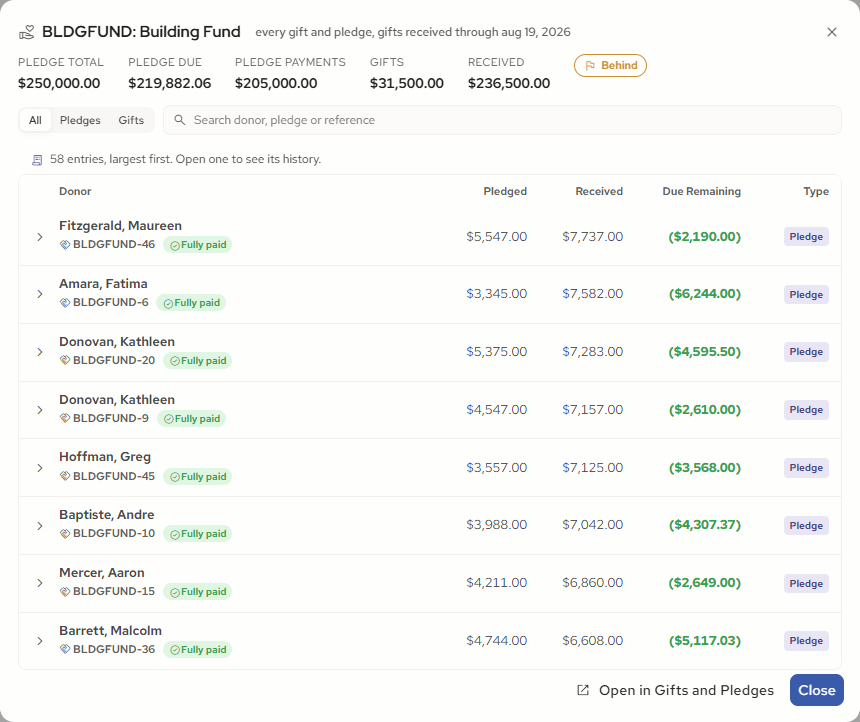
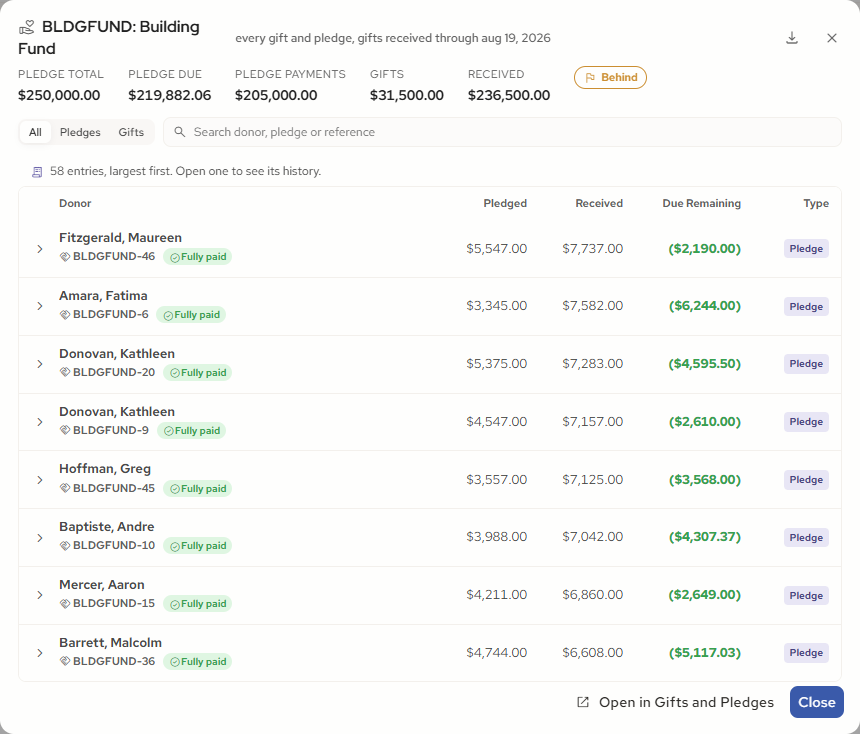
Gifts Pledges: download control on the giving ledger pop-up (owner, 9 Oct)
An icon button beside Close, named Export to Excel on hover and for screen readers,
a labelled stub that reports the purpose and the ledger's type filter. The labelled
button made the title wrap at the pop-up's width, so the control is an icon like Close.
Handover section updated (Overview, pop-up bullet, Hooks, Still open), shot 05 retaken.
Driver 853; suite 3514 green.

diff --git a/handover.html b/handover.html
@@ -1057,7 +1057,7 @@ main{padding:20px 16px 60px} .widget{padding:18px 16px} .pair-grid{grid-template
 </ul>
 </div></section>
 <section id="w17" class="widget">
-<header class="wh"><div><span class="wid">W17</span><h2>Gifts Pledges</h2></div><div class="badges"><span class="ctype t-complete">Complete Change</span><span class="rev">Draft 6 Oct 2026</span></div></header>
+<header class="wh"><div><span class="wid">W17</span><h2>Gifts Pledges</h2></div><div class="badges"><span class="ctype t-complete">Complete Change</span><span class="rev">Draft 9 Oct 2026</span></div></header>
 
 <details class="shots" open><summary>Screenshots <span class="count">12 of 12 saved</span></summary>
 <div class="pair"><h4><span class="num">01</span>Glance</h4><div class="pair-grid"><figure class="shot"><figcaption>V1</figcaption><button class="zoom" data-src="docs/Pics/Version%201/W17%20-%20Gifts%20Pledges/W17-V1-01%20Glance.png" aria-label="Enlarge V1 Glance"><img src="docs/Pics/Version%201/W17%20-%20Gifts%20Pledges/W17-V1-01%20Glance.png" alt="V1 Glance" loading="lazy"></button></figure><figure class="shot"><figcaption>V2</figcaption><button class="zoom" data-src="docs/Pics/Version%202/W17%20-%20Gifts%20Pledges/W17-V2-01%20Glance.png" aria-label="Enlarge V2 Glance"><img src="docs/Pics/Version%202/W17%20-%20Gifts%20Pledges/W17-V2-01%20Glance.png" alt="V2 Glance" loading="lazy"></button></figure></div></div>
@@ -1076,7 +1076,7 @@ main{padding:20px 16px 60px} .widget{padding:18px 16px} .pair-grid{grid-template
 <li><strong>The date control.</strong> V1 had one "received through" date (Today, End of last month, custom). V2 keeps "Gifts received through" as the default and adds Year to date, This quarter, This month and Custom dates.</li>
 <li><strong>The Giving bars.</strong> Three segments that always fill the track (pledge payments, still expected, gifts), most received first, with a figures line under each. V1 drew a thermometer with a hatched shortfall, a due marker and a % fulfilled.</li>
 <li><strong>The Summary Table splits in two.</strong> Pledges reproduces the legacy Gifts and Pledges panel column for column; Gifts lists the money with no pledge. Neither is sortable. V1 had one sortable table.</li>
-<li><strong>The pop-up becomes a giving ledger.</strong> Every gift and pledge for the purpose, largest first, with an All / Pledges / Gifts filter, a search box and rows that open to their history. V1 listed donors most behind first.</li>
+<li><strong>The pop-up becomes a giving ledger.</strong> Every gift and pledge for the purpose, largest first, with an All / Pledges / Gifts filter, a search box, rows that open to their history, and a download control top right. V1 listed donors most behind first.</li>
 <li><strong>Detail and Glance.</strong> Detail gains the view switch (V1 showed only "Progress toward goal" there). Glance drops the purpose chip and the "N purposes behind schedule" line for a split bar and a one-line split.</li>
 </ol>
 <p>Everything else (the card menu, the chip row, the view switch top right, the loading skeleton, the empty state, Close) is in the same place as V1. The demos use different sample data and anchor dates, so every figure, name and row count in the screenshots differs for that reason alone.</p>
@@ -1104,7 +1104,7 @@ main{padding:20px 16px 60px} .widget{padding:18px 16px} .pair-grid{grid-template
 </ul>
 <h4>Pop-up</h4>
 <ul>
-<li><strong>Pop-up - Giving ledger:</strong> titled "CODE: Name"; a summary strip (Pledge Total, Pledge Due, Pledge payments, Gifts, Received, status badge); All / Pledges / Gifts and a search over donor, pledge and reference; columns Donor, Pledged, Received, Due Remaining, Type. A pledge row shows its pace status ("Fully paid", "Up to date", "About a month behind") and a Pledge tag; a gift row reads "No pledge" with a Gift tag. A pledge opens to its instalment schedule (Fallen due or Not yet due) and the gifts applied to it; a gift opens to its one line. The list scrolls inside the pop-up; footer "Open in Gifts and Pledges" and Close. V1 had the donors most behind first, All donors / Behind only, Export to Excel and a drawer per donor; its "Paid in full" on a merely current pledge is now "Up to date".</li>
+<li><strong>Pop-up - Giving ledger:</strong> titled "CODE: Name"; a summary strip (Pledge Total, Pledge Due, Pledge payments, Gifts, Received, status badge); All / Pledges / Gifts and a search over donor, pledge and reference; columns Donor, Pledged, Received, Due Remaining, Type. A pledge row shows its pace status ("Fully paid", "Up to date", "About a month behind") and a Pledge tag; a gift row reads "No pledge" with a Gift tag. A pledge opens to its instalment schedule (Fallen due or Not yet due) and the gifts applied to it; a gift opens to its one line. The list scrolls inside the pop-up; a download icon sits top right beside the close control, "Export to Excel" on hover, and downloads the ledger as shown (All, Pledges or Gifts); footer "Open in Gifts and Pledges" and Close. V1 had the donors most behind first, All donors / Behind only, Export to Excel and a drawer per donor; its "Paid in full" on a merely current pledge is now "Up to date".</li>
 </ul>
 <h3>Developer Notes</h3>
 <p>New data is needed: each purpose's gift lines with their pledge link, posted and undone flags, how each arrived and its reference; and each active pledge's begin date, end date, frequency and instalment count. Everything else is presentation.</p>
@@ -1125,12 +1125,18 @@ main{padding:20px 16px 60px} .widget{padding:18px 16px} .pair-grid{grid-template
 <li><strong>Bar:</strong> pledge payments in the window; still expected = Pledge Total − pledge payments, never below zero; gifts in the window. Scale = the larger of Pledge Total and payments, plus gifts, so an over-paid pledge cannot run off the track.</li>
 <li><strong>Tables and ledger:</strong> Pledges lists purposes with an active pledge, largest Pledge Total first (the panel's order). Gifts lists purposes with an unlinked gift in the window; Donors counts a donor once per purpose, once across purposes in the totals row. The ledger is the same two reads for one purpose, sorted by amount. Per-pledge pace: Fully paid (payments ≥ pledge), Up to date (Due Remaining ≤ 0), else banded by (share paid − share due) × term days: 30+ days ahead, On track, About a month behind, 60+ days behind.</li>
 </ul>
+<h4>Hooks</h4>
+<ul>
+<li>Export to Excel on the ledger pop-up: the rows as filtered and sorted on screen (Donor, reference, pace status, Pledged, Received, Due Remaining, Type) for one purpose, as an Excel file.</li>
+<li>Open in Gifts and Pledges: the purpose's record in the Gifts and Pledges module.</li>
+</ul>
 <h4>Still open</h4>
 <ul>
 <li>Whether the Summary Table captions are wanted.</li>
 <li>Whether the dashboard endpoint can supply how a gift arrived and its reference; the API spec still describes the earlier blended basis.</li>
 <li>The headline pill still carries a percentage, and the amount given appears twice on a Giving row; the owner has been asked which to keep.</li>
 <li>Where "Open in Gifts and Pledges" should go. Don't assume a target page exists.</li>
+<li>Which service produces the ledger's Excel file; no export endpoint exists yet.</li>
 </ul>
 </div></section>
 <section id="w18" class="widget"><header class="wh"><div><span class="wid">W18</span><h2>Financial KPI</h2></div><div class="badges"><span class="ctype t-new">New Widget</span><span class="rev ok">Finalised 28 Sep 2026</span></div></header>

diff --git a/_tools/w17-gifts.driver.js b/_tools/w17-gifts.driver.js
@@ -769,12 +769,25 @@ A.cssDeclares(shell.css, [
   /* The header export went on 28 Sep (owner). The drill keeps its own
      purpose-scoped export, and it is still a labelled stub. */
   const n1 = env.log.status.length;
-  /* Both export stubs are gone: the header one on 28 Sep at the owner's
-     request, the drill's when the drill was replaced by the pop-up. There is
-     no export control left on this widget. */
+  /* The header export went on 28 Sep (owner) and the inline drill's export with the drill. On 9 Oct the owner
+     asked for a download on the ledger pop-up itself: Export to Excel, top right beside Close, a labelled stub. */
   gfire("export-donors", { "data-id": "gpF", "data-c": LABELS[2] });
   A.eq(env.log.status.length, n1, "the retired drill export reports nothing, because it is gone");
-  A.absent(shell.script, 'data-gpf="export', "no export action survives in the block");
+  A.absent(shell.script, 'data-gpf="export"', "the header export stays gone");
+  gfire("baropen", { "data-id": "gpF", "data-c": LABELS[2] });
+  const mx = shim.captured["gpfModalRoot"];
+  A.contains(mx, 'class="iconbtn" data-gpf="ledger-export"', "the ledger pop-up carries a download control, an icon button like Close beside it (owner, 9 Oct; the labelled button made the title wrap at 860px)");
+  A.contains(mx, 'aria-label="Export to Excel" data-tip="Export to Excel: download this ledger as shown" data-tip-plain>', "named Export to Excel for screen readers and on hover, with the download glyph"); A.contains(mx, ">download</span></button>", "download glyph");
+  A.ok(mx.indexOf('data-gpf="ledger-export"') < mx.indexOf('class="modal-b gpf-detail-b"') && mx.indexOf('data-gpf="ledger-export"') < mx.indexOf('data-gpf="detail-close" aria-label="Close"'), "it sits in the header, before the Close control");
+  const n2 = env.log.status.length;
+  gfire("ledger-export", { "data-id": "gpF", "data-c": LABELS[2] });
+  const saidX = env.log.status[env.log.status.length - 1];
+  A.ok(env.log.status.length > n2, "activating the export reported status");
+  A.contains(saidX, "stub", "the export SAYS it is a stub (no export endpoint)"); A.contains(saidX, LABELS[2], "and names the purpose"); A.contains(saidX, "Excel", "and the format");
+  gfire("ledger-filter", { "data-id": "gpF", "data-v": "gifts" });
+  gfire("ledger-export", { "data-id": "gpF", "data-c": LABELS[2] });
+  A.contains(env.log.status[env.log.status.length - 1], "(gifts only)", "the export follows the ledger's type filter");
+  gfire("detail-close", { "data-id": "gpF" });
   A.eq(typeof ctx.gpFExportBtn, "undefined", "the header export builder is deleted, not merely unused");
   /* NO invented workflow action anywhere on the card (the standing constraint) */
   const surfaces = ["kpi", "wide", "xwide"].map(function (sz) {

diff --git a/index.html b/index.html
@@ -10859,6 +10859,7 @@ function gpFLedgerModalHTML(){
   var note=rows.length?(rows.length+' entr'+(rows.length===1?'y':'ies')+', largest first. Open one to see its history.'):'';
   return '<div class="modal-backdrop" data-gpf="detail-close"><div class="modal modal-wide gpf-detail-modal gpf-modal" data-gpf="stop" role="dialog" aria-modal="true" aria-label="'+gpFEsc(comp.label+', every gift and pledge')+'">'+
     '<div class="modal-h gpf-detail-h"><span class="modal-title"><span class="material-symbols-rounded gpf-detail-ic">volunteer_activism</span>'+comp.label+'</span><span class="gpf-dsub">every gift and pledge, '+gpFRangePhrase(w).toLowerCase()+'</span><span class="gpf-dh-spacer"></span>'+
+      '<button class="iconbtn" data-gpf="ledger-export" data-c="'+gpFEsc(comp.label)+'" aria-label="Export to Excel" data-tip="Export to Excel: download this ledger as shown" data-tip-plain>'+ICON('download')+'</button>'+
       '<button class="iconbtn" data-gpf="detail-close" aria-label="Close">'+ICON('close')+'</button></div>'+
     '<div class="modal-b gpf-detail-b">'+summary+bar+
       (note?('<div class="gpf-ctx gpf-cap">'+ICON('receipt_long')+'<span>'+note+'</span></div>'):'')+list+'</div>'+
@@ -10893,6 +10894,7 @@ function gpFOnClick(e){
   if(a==='ledger-filter'){if(GPF_MODAL){GPF_MODAL.filter=t.getAttribute('data-v');gpFRenderModal();}return;}
   if(a==='detail-close'){GPF_MODAL=null;gpFRenderModal();return;}
   if(a==='open-record'){setStatus('Opening '+t.getAttribute('data-c')+' in the Gifts and Pledges module (stub, no navigation backend in this shell).');return;}
+  if(a==='ledger-export'){var lf=GPF_MODAL&&GPF_MODAL.filter;setStatus('Exporting the giving ledger for '+t.getAttribute('data-c')+(lf&&lf!=='all'?' ('+lf+' only)':'')+' to Excel, as shown (stub, no export endpoint in this shell).');return;}
 }
 var GPF_WIRED=false;
 (function(){

diff --git a/docs/decisions/W17.md b/docs/decisions/W17.md
@@ -449,3 +449,6 @@ whose money columns still sit right, as the panel's do.
 
 Verified: 841 assertions for W17, 2,741 across the suite, all green. Lint unchanged. The
 `.gpf-c-ctr` rule went with its last user.
+
+## 9 Oct: Export to Excel on the giving ledger pop-up (owner)
+Owner: "simple add a download to the Gift pledges pop up and add that to the hand over doc." The ledger pop-up's header gains a download control top right beside Close: an icon button like Close (the labelled "Export to Excel" button made the title wrap at the pop-up's 860px width), named "Export to Excel" for screen readers and on hover. It is a labelled stub like Open in Gifts and Pledges: the status line reports the purpose, the ledger's type filter when one is on, and that no export endpoint exists in this shell. The header export removed on 28 Sep stays removed. Driver section 9 rewritten around it; handover section updated (Overview item 6, the pop-up bullet, a Hooks list and a Still open line) and shot 05 retaken.
